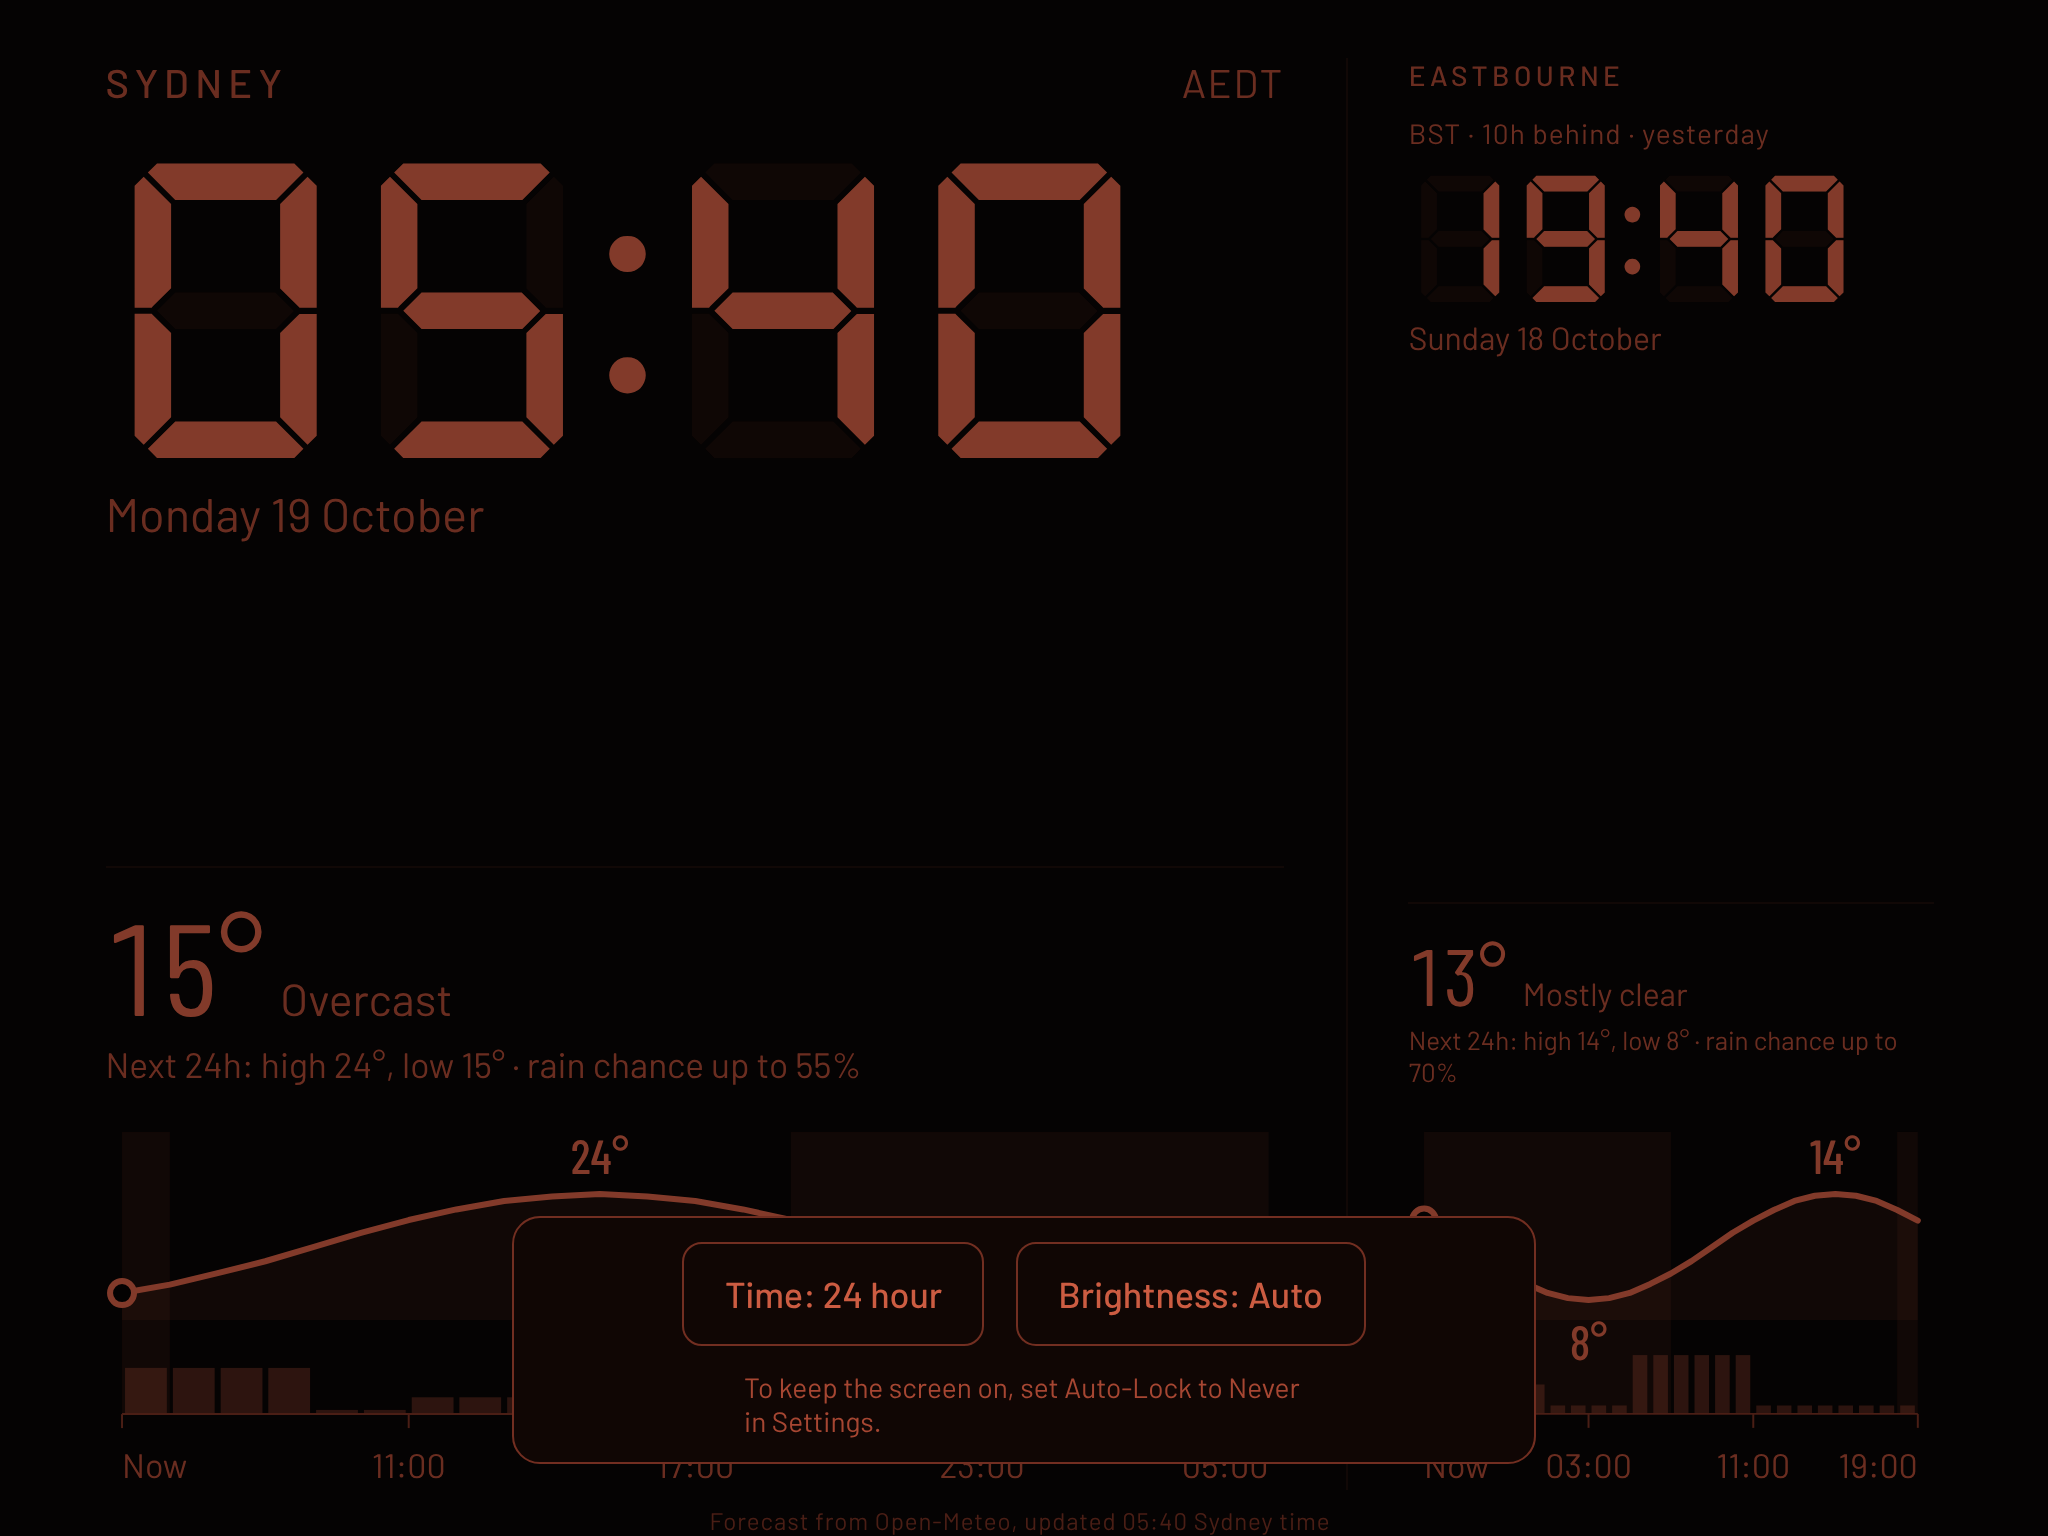
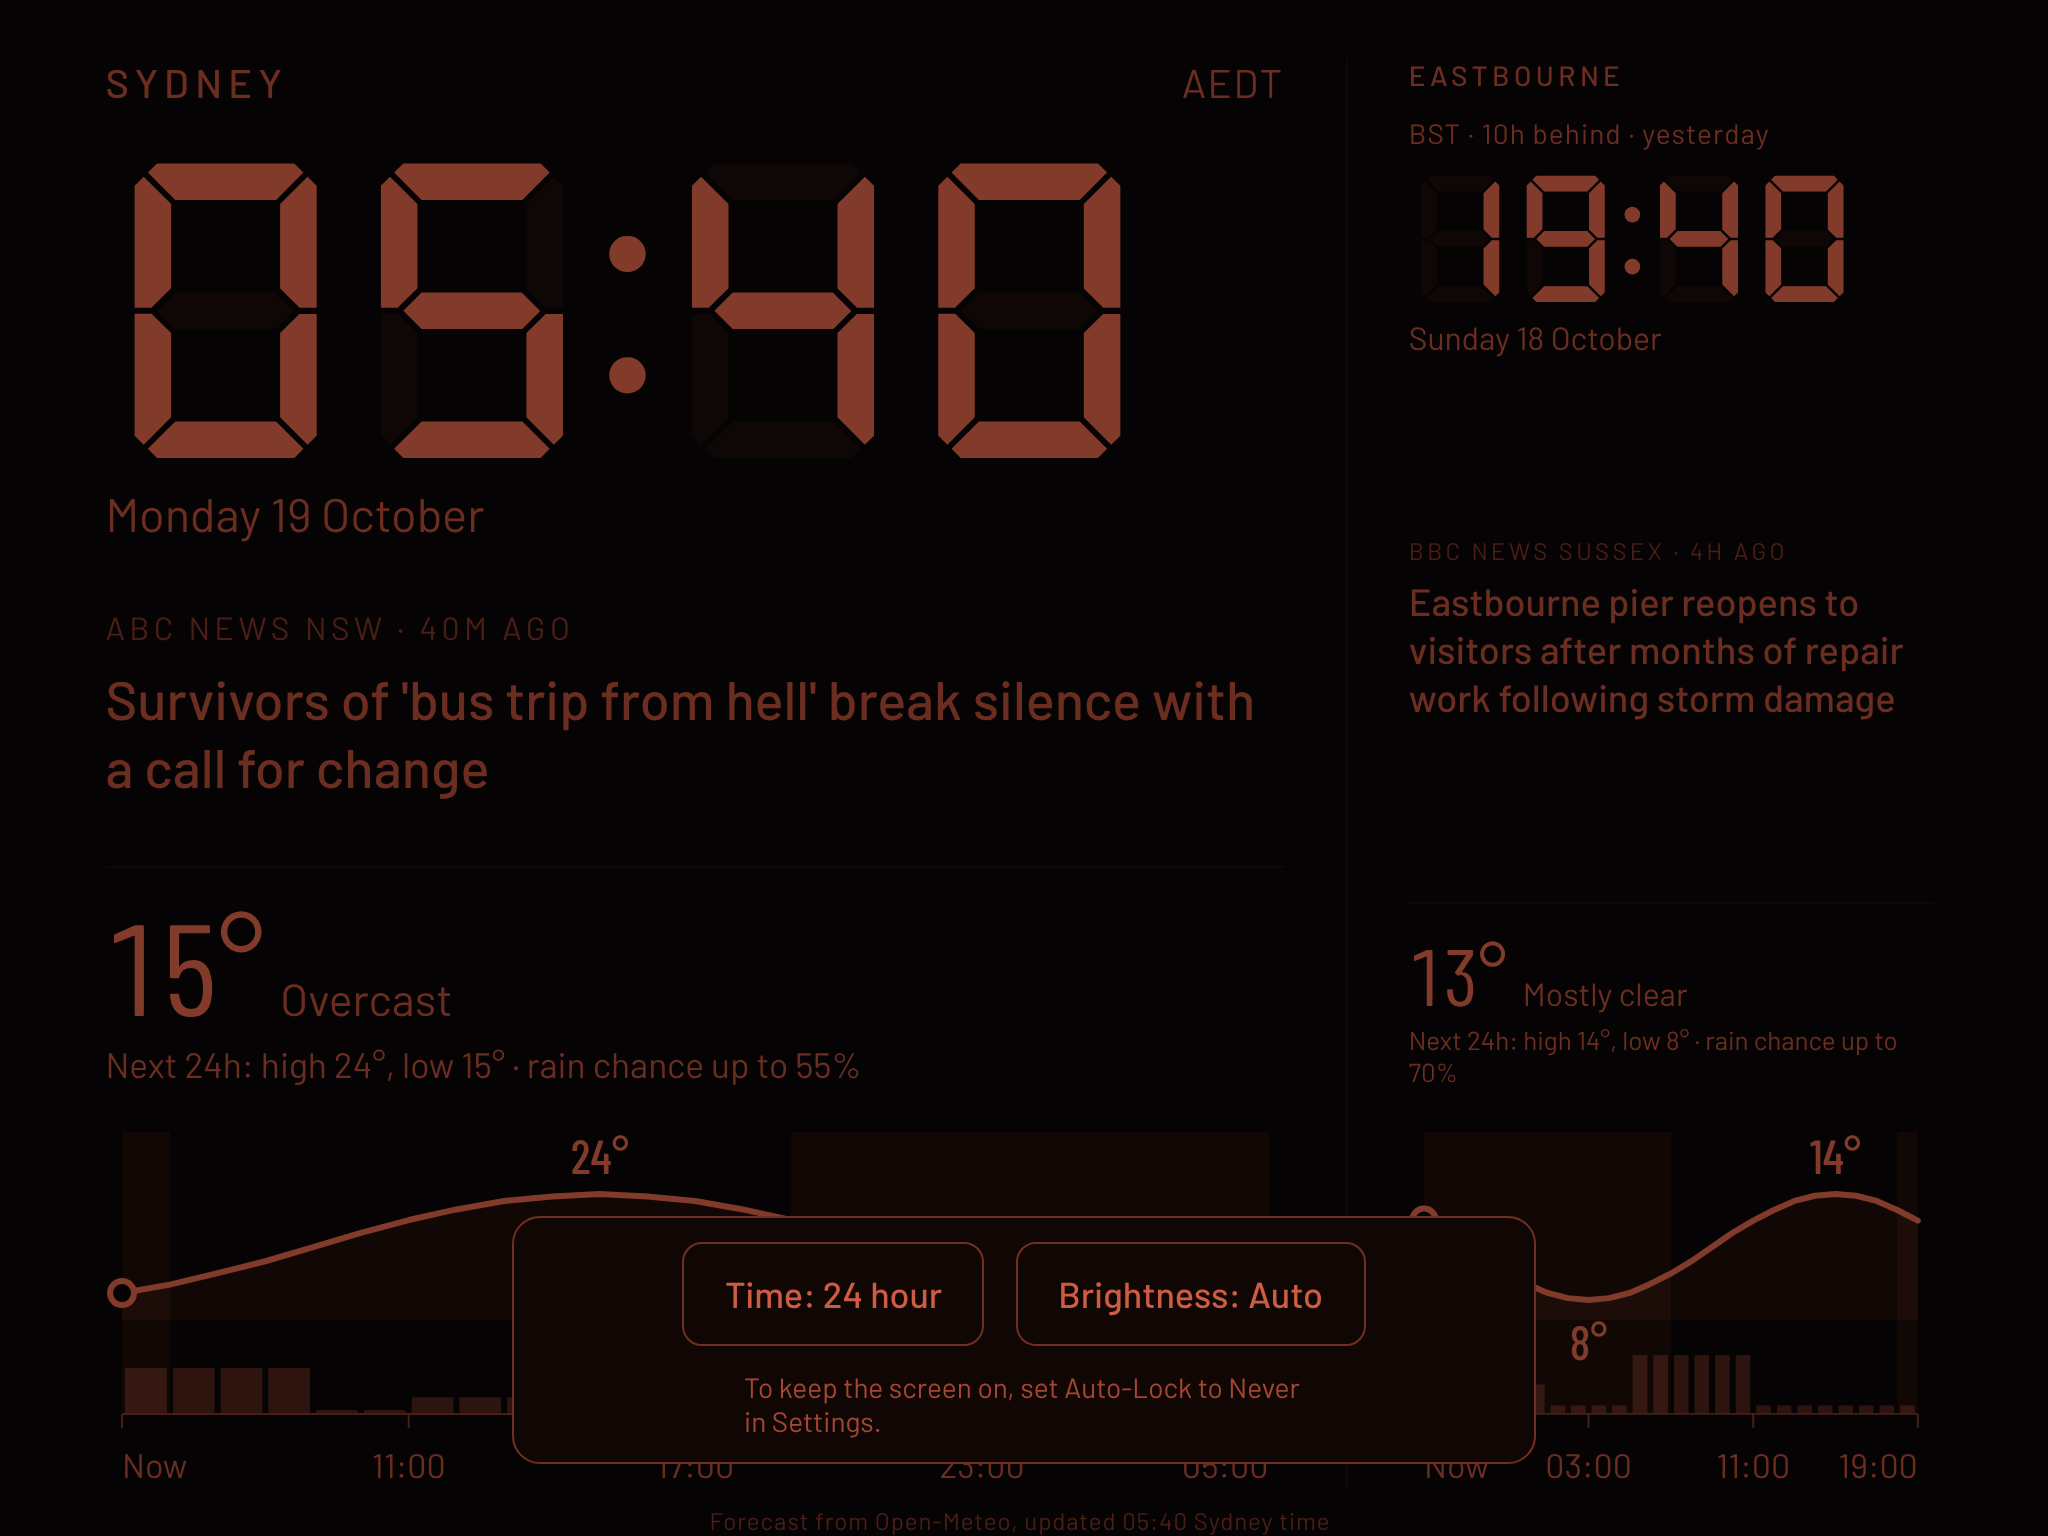
Show a top regional headline per place in the middle section
ABC News NSW for Sydney, BBC News Sussex (fallback England) for Eastbourne.
A scheduled GitHub Action writes news.json twice an hour when a headline
changes; the page reads it. Hidden in portrait.

Claude-Session: https://claude.ai/code/session_01LHKBPoX4shMzbvKjK3tPdX

Changed region(s): [[0.0312, 0.4375, 0.625, 0.5312], [0.6875, 0.375, 0.9375, 0.4688]]

diff --git a/app.js b/app.js
@@ -116,6 +116,7 @@
 
   var lastHourKey = null;
   var lastShift = null;
+  var lastNewsMinute = null;
   var lastDim = null;
 
   function tick() {
@@ -158,6 +159,7 @@
       var dy = ((minuteIndex * 11) % 17) - 8;
       app.style.transform = 'translate(' + dx + 'px,' + dy + 'px)';
     }
+    if (minuteIndex !== lastNewsMinute) { lastNewsMinute = minuteIndex; if (typeof renderNews === 'function') renderNews(); }
 
     // the forecast window moves on every hour
     var hourKey = Math.floor(now.getTime() / 3600000);
@@ -378,6 +380,46 @@
     foot.textContent = text;
   }
 
+  /* ---------- regional headlines ---------- */
+
+  // news.json is written by a scheduled GitHub Action (see .github/workflows/news.yml).
+  var news = store.get('news', null);
+  var NEWS_REFRESH_MS = 15 * 60 * 1000;
+
+  function ago(ms) {
+    var m = Math.max(0, Math.round(ms / 60000));
+    if (m < 60) return m + 'm ago';
+    var h = Math.round(m / 60);
+    if (h < 48) return h + 'h ago';
+    return Math.round(h / 24) + 'd ago';
+  }
+
+  function renderNews() {
+    KEYS.forEach(function (k) {
+      var n = news && news[k];
+      var box = $(k + '-news');
+      if (!n || !n.title) { box.hidden = true; return; }
+      var age = n.published ? ' · ' + ago(Date.now() - Date.parse(n.published)) : '';
+      $(k + '-news-src').textContent = n.source + age;
+      $(k + '-news-title').textContent = n.title;
+      box.hidden = false;
+    });
+  }
+
+  function loadNews() {
+    fetch('news.json?t=' + Math.floor(Date.now() / 600000), { cache: 'no-store' })
+      .then(function (r) {
+        if (!r.ok) throw new Error('HTTP ' + r.status);
+        return r.json();
+      })
+      .then(function (data) { news = data; store.set('news', data); })
+      .catch(function () { /* keep whatever we had */ })
+      .then(function () {
+        renderNews();
+        setTimeout(loadNews, NEWS_REFRESH_MS);
+      });
+  }
+
   /* ---------- screen wake lock ---------- */
 
   var wakeLock = null;
@@ -452,7 +494,9 @@
   renderAwake();
   tick();
   renderWeather();
+  renderNews();
   setInterval(tick, 1000);
   keepAwake();
   loadWeather();
+  loadNews();
 })();

diff --git a/styles.css b/styles.css
@@ -114,6 +114,29 @@ body { font-family: var(--body); }
   margin-top: 0.4em;
 }
 
+/* regional headline, fills the space between the clock and the forecast */
+.news { min-width: 0; }
+
+.news-src {
+  font-size: clamp(12px, 2.8cqw, 16px);
+  letter-spacing: 0.14em;
+  text-transform: uppercase;
+  color: var(--ink-2);
+  margin-bottom: 0.6em;
+}
+
+.news-title {
+  font-family: var(--body);
+  font-weight: 500;
+  font-size: clamp(19px, 4.6cqw, 32px);
+  line-height: 1.25;
+  color: var(--ink);
+  display: -webkit-box;
+  -webkit-box-orient: vertical;
+  -webkit-line-clamp: 4;
+  overflow: hidden;
+}
+
 .wx {
   padding-top: clamp(12px, 2vh, 22px);
   border-top: 1px solid var(--line);
@@ -202,6 +225,7 @@ body { font-family: var(--body); }
   .city + .city { border-left: 0; border-top: 1px solid var(--line); }
   #app { padding-top: max(20px, env(safe-area-inset-top)); padding-bottom: max(24px, env(safe-area-inset-bottom)); }
   .city { gap: 8px; }
+  .news { display: none; }  /* portrait is tight, headlines are for landscape */
   #city-syd .time { font-size: 20cqw; }
   #city-uk .time { font-size: 16cqw; }
   .wx { padding-top: 8px; }

diff --git a/index.html b/index.html
@@ -30,6 +30,10 @@
       <div class="time"><span class="ghost" aria-hidden="true">88:88</span><span class="hm" id="syd-hm">--:--</span><span class="ap" id="syd-ap"></span></div>
       <div class="date" id="syd-date"></div>
     </div>
+    <div class="news" id="syd-news" hidden>
+      <div class="news-src" id="syd-news-src"></div>
+      <p class="news-title" id="syd-news-title"></p>
+    </div>
     <div class="wx">
       <div class="wx-now">
         <span class="wx-temp" id="syd-temp">--°</span>
@@ -48,6 +52,10 @@
       </header>
       <div class="time"><span class="ghost" aria-hidden="true">88:88</span><span class="hm" id="uk-hm">--:--</span><span class="ap" id="uk-ap"></span></div>
       <div class="date" id="uk-date"></div>
+    </div>
+    <div class="news" id="uk-news" hidden>
+      <div class="news-src" id="uk-news-src"></div>
+      <p class="news-title" id="uk-news-title"></p>
     </div>
     <div class="wx">
       <div class="wx-now">

diff --git a/docs/requirements.md b/docs/requirements.md
@@ -29,6 +29,7 @@ Status key: Built means the code exists and passed my own render checks. Accepte
 | S6 | The screen protects itself from burn-in. | Content shifts a few pixels every minute. | Built |
 | S7 | I can put it on the Home Screen and it opens full screen. | Home Screen icon, no Safari toolbar, black status bar. | Built |
 | S8 | I can switch between 24 and 12 hour time. | 24 hour by default. One tap to switch, remembered. Also applies to the chart hour labels. | Built |
+| S9 | As the sleeper, I can see the top regional headline for each place. | Sydney shows the top ABC News NSW story, Eastbourne the top BBC News Sussex story, each with its source and age. Refreshes about every 30 minutes. Hidden if no headline is available. Landscape only. | Built, not yet seen with live data |
 
 ## Ideas, not yet prioritised
 
@@ -78,6 +79,7 @@ Status key: Built means the code exists and passed my own render checks. Accepte
 | # | Scope | Show and tell |
 |---|-------|---------------|
 | 1 | S1 to S8 as a first working version | Screenshots of landscape and portrait with sample forecast data. Done, feedback recorded below |
+| 2 | S9 regional headlines in the blank middle section | Screenshot with sample headlines, then live once the first scheduled run has finished |
 
 ## Feedback log
 
@@ -86,3 +88,4 @@ Status key: Built means the code exists and passed my own render checks. Accepte
 | 19 Oct 2026 | 1 | Landscape, 24 hour, locations Eastbourne and Earlwood, repo named night-clock | Applied the same day |
 | 19 Oct 2026 | 1 | Make Sydney's digits larger than Eastbourne's | Sydney is now about 2.3 times the height of Eastbourne in landscape |
 | 19 Oct 2026 | 1 | Change the font so it looks like the TV series 24 | Bold seven-segment digital display with faint unlit segments. A look in the same spirit, not a copy of the show's graphic. Sydney is about 2.3 times the size of Eastbourne. Customer to confirm it is the right feel |
+| 19 Oct 2026 | 1 | Use the blank middle section for a top regional news headline | Added as S9. One headline per place, Sydney from ABC News NSW, Eastbourne from BBC News Sussex |

diff --git a/README.md b/README.md
@@ -24,6 +24,12 @@ Tap anywhere to show the controls for eight seconds.
 
 Choices are remembered on the iPad. Landscape is the main layout. Portrait also works.
 
+## Headlines
+
+The blank space in each column shows the top regional headline: ABC News NSW for Sydney and BBC News Sussex for Eastbourne (BBC News England if the Sussex feed is unavailable). They are hidden in portrait.
+
+A browser cannot read those RSS feeds directly, so a scheduled GitHub Action (`.github/workflows/news.yml`) fetches them twice an hour and commits `news.json` when a headline changes. The page reads `news.json`. To refresh by hand, open the Actions tab, choose Update headlines, then Run workflow. Headlines are shown with their source for personal use.
+
 ## What it does for a night screen
 
 - The picture shifts a few pixels every minute to protect the display.
@@ -45,7 +51,9 @@ Then open http://localhost:8000.
 |------|---------|
 | `index.html` | Page structure and Home Screen settings |
 | `styles.css` | Layout and the night colour scheme |
-| `app.js` | Clock, time zones, forecast fetch and chart, controls |
+| `app.js` | Clock, time zones, forecast fetch and chart, headlines, controls |
+| `scripts/update-news.mjs`, `.github/workflows/news.yml` | Fetch the regional headlines on a schedule |
+| `news.json` | Latest headlines, written by the workflow |
 | `manifest.webmanifest`, `icon-*.png` | Home Screen install |
 | `fonts/` | Seven-segment digit font (DSEG7 Classic, SIL Open Font License, licence included) |
 | `docs/requirements.md` | Product backlog, open questions and feedback log |
